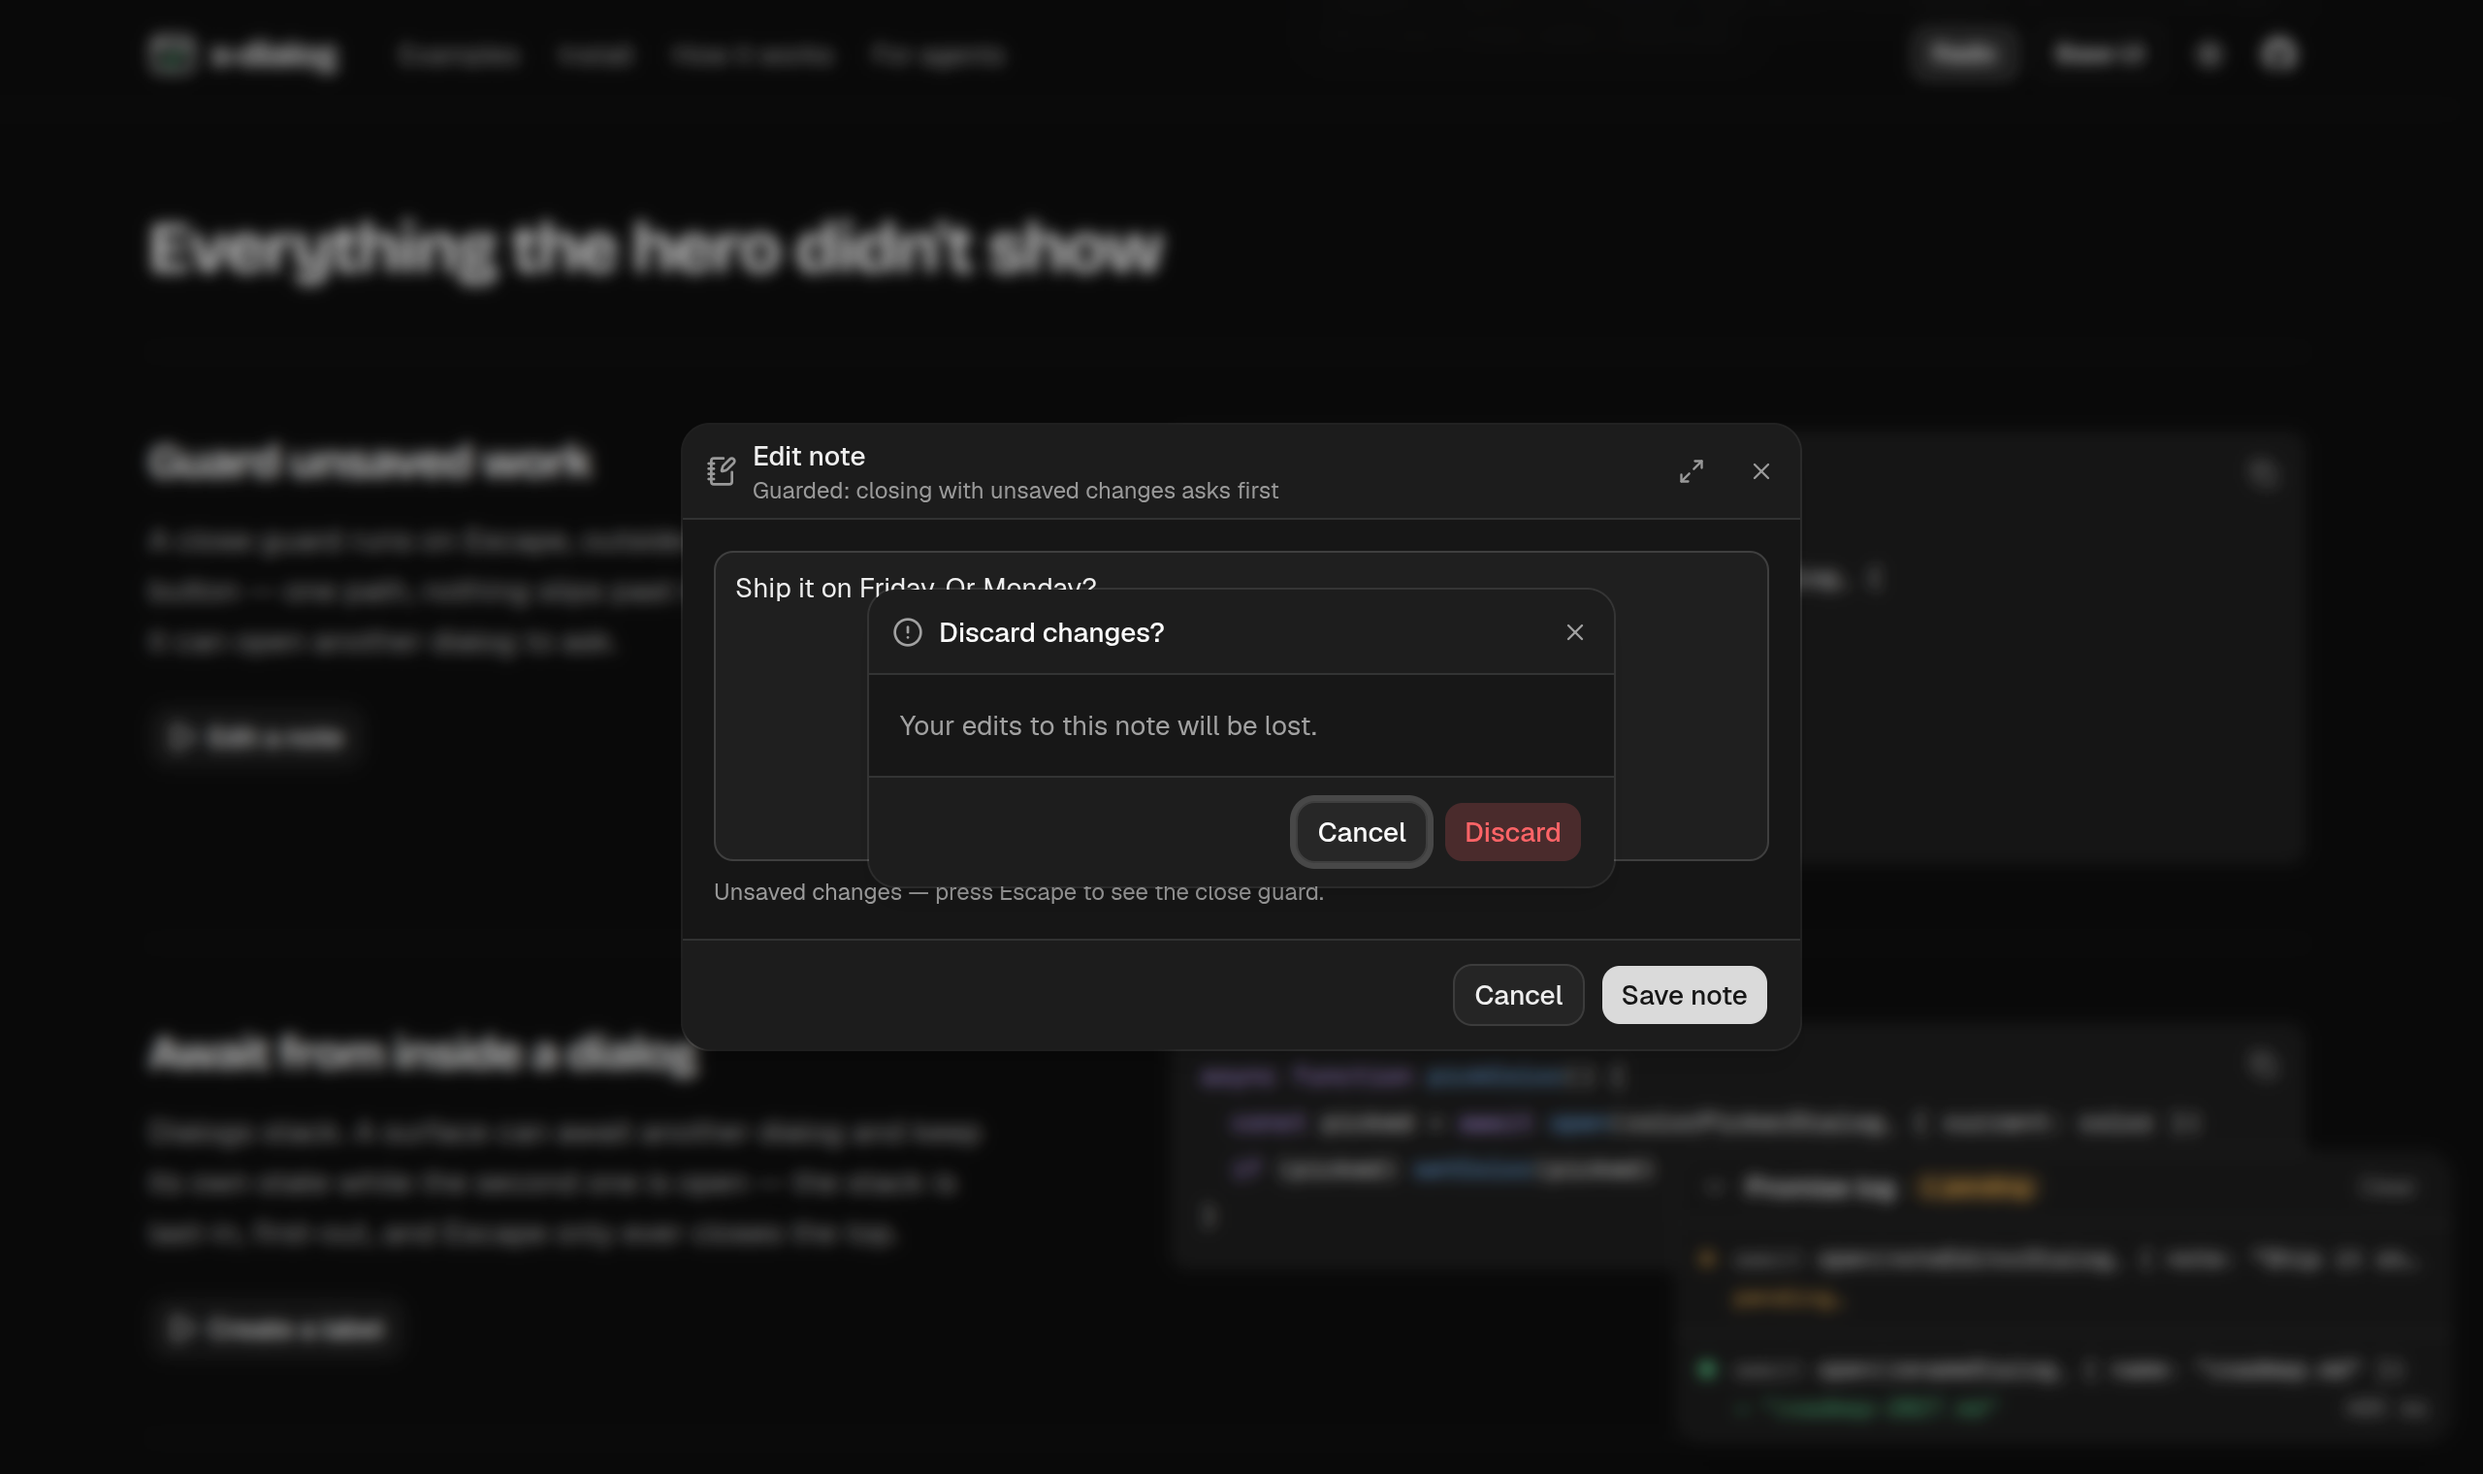
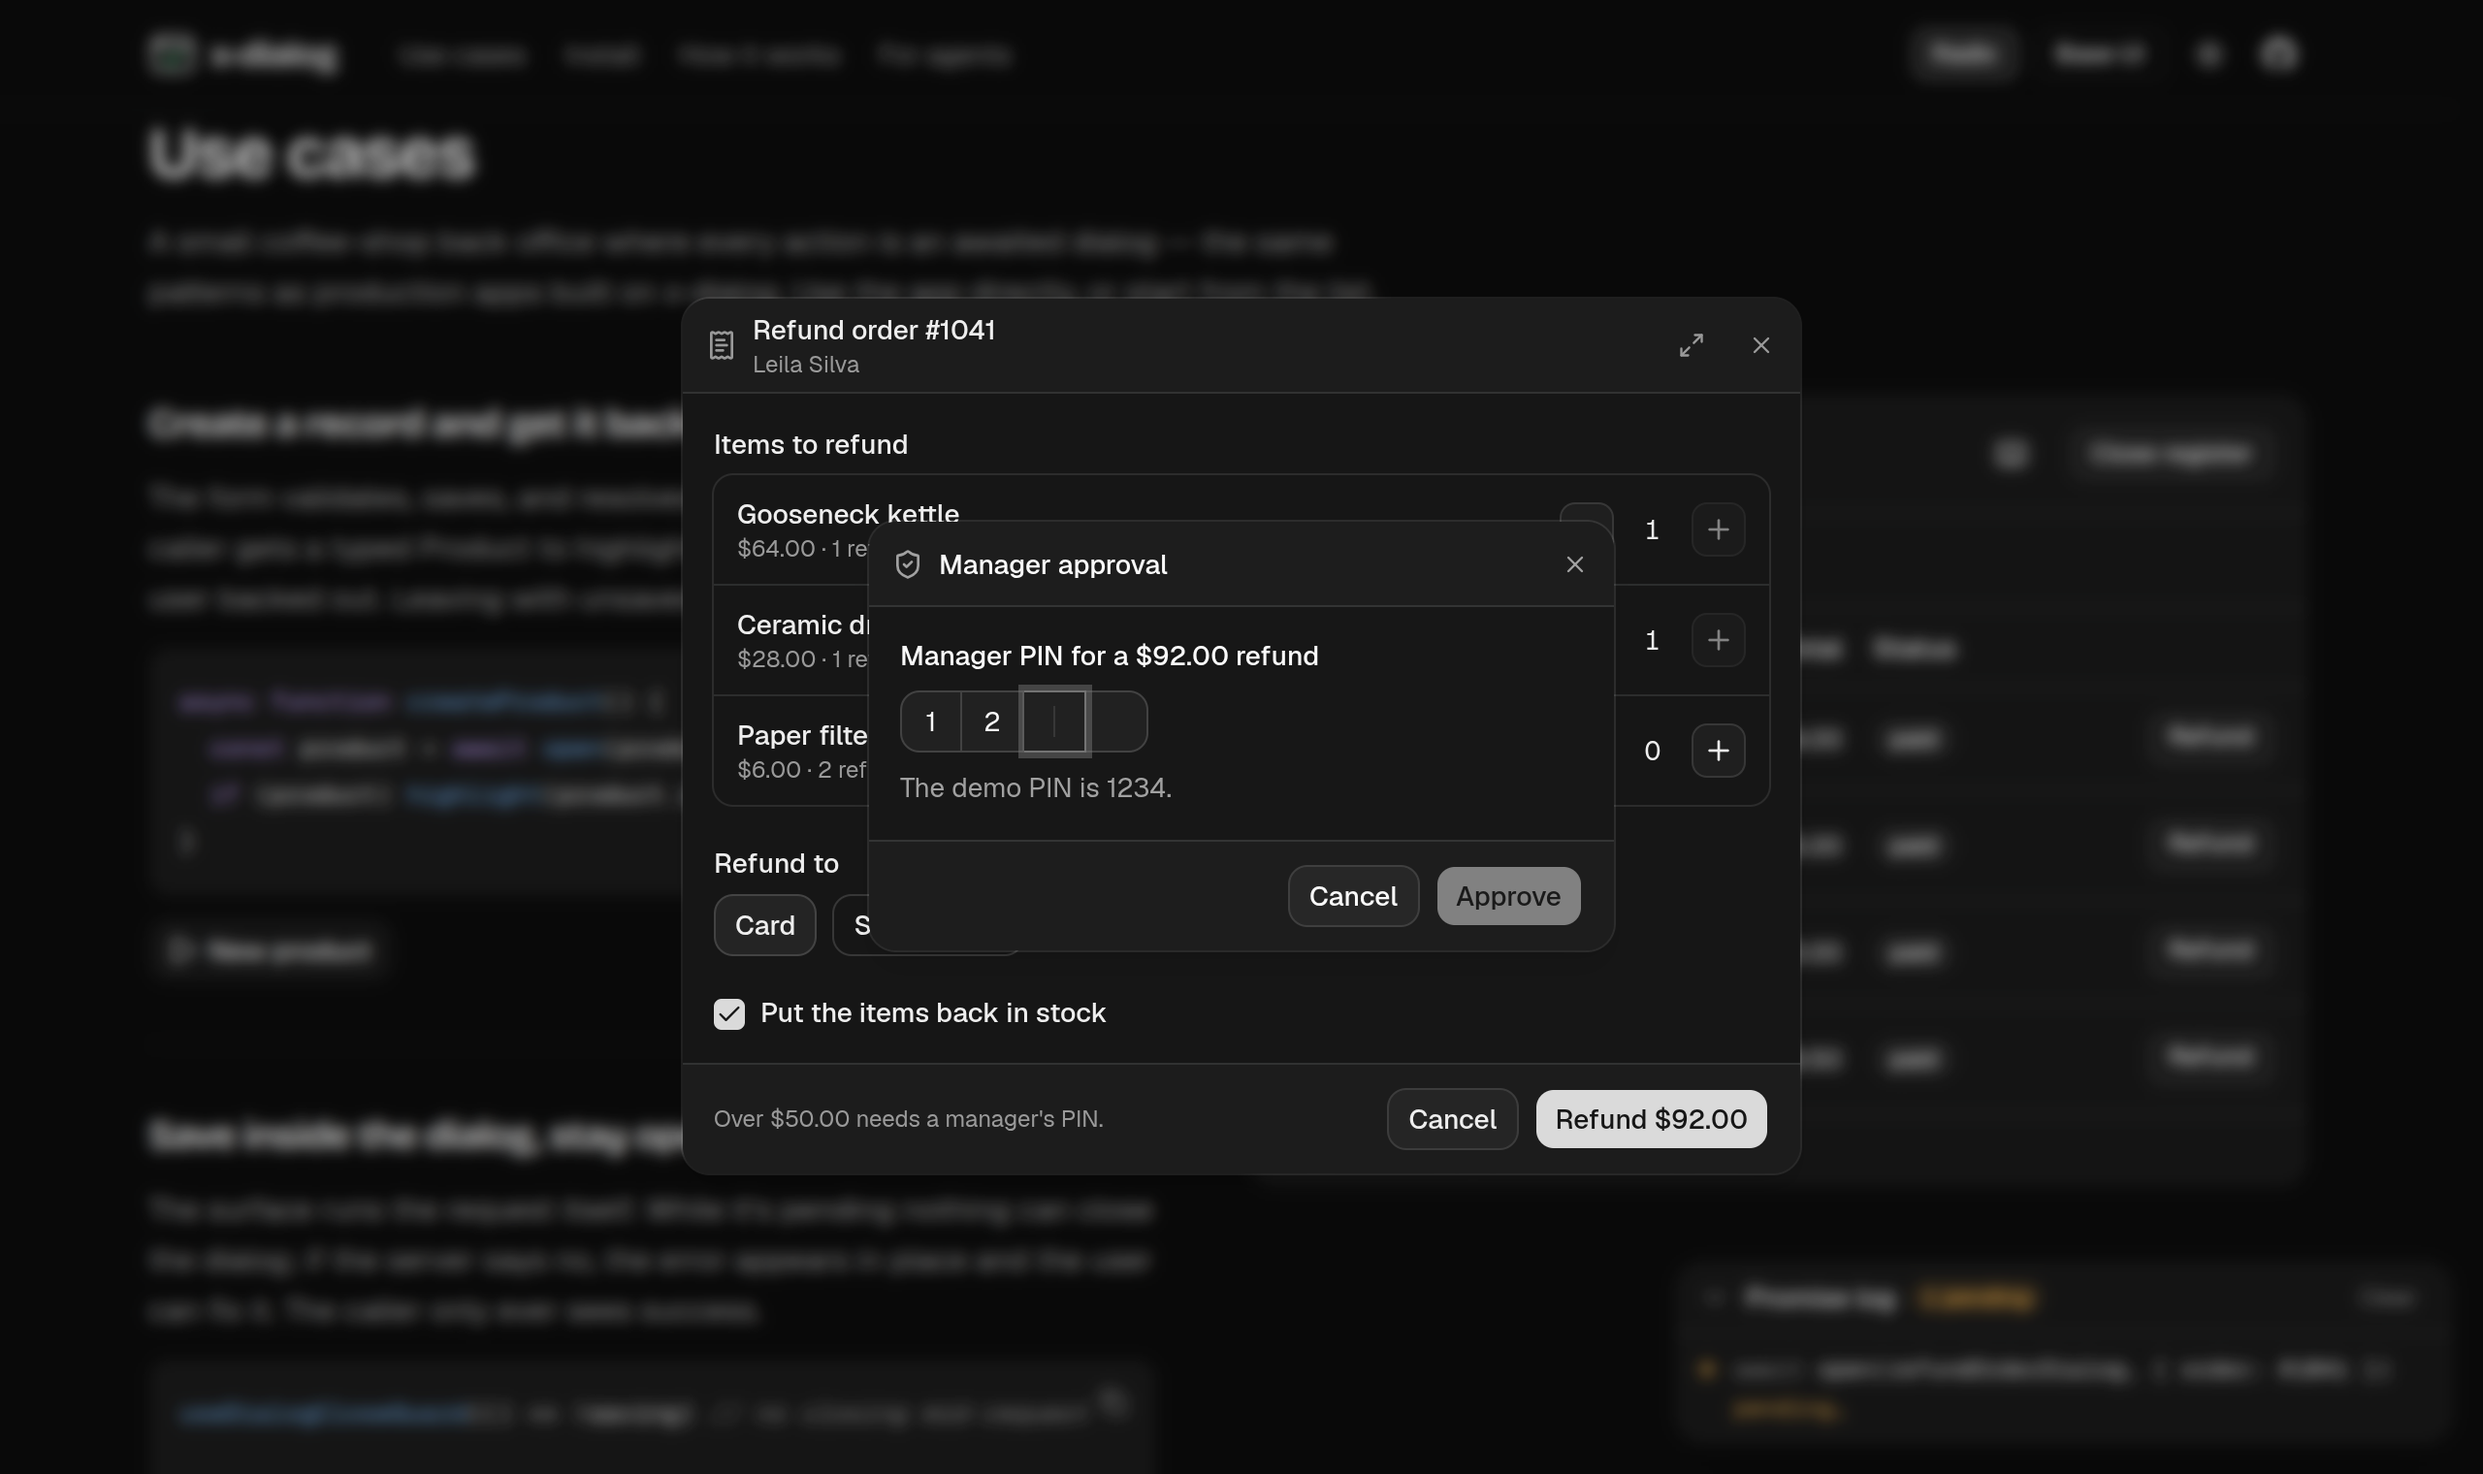
docs: show the refund and manager-approval flow in the README hero

diff --git a/README.md b/README.md
@@ -2,7 +2,7 @@
 
 <picture>
   <source media="(prefers-color-scheme: dark)" srcset=".github/assets/hero-dark.png">
-  <img alt="A note editor dialog with a 'Discard changes?' confirmation stacked on top of it" src=".github/assets/hero-light.png" width="860">
+  <img alt="A refund dialog for order #1041 with a manager-approval PIN dialog stacked on top of it" src=".github/assets/hero-light.png" width="860">
 </picture>
 
 # x-dialog
